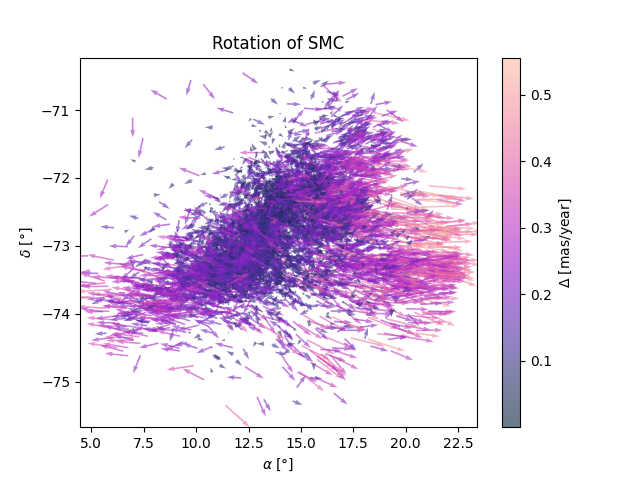
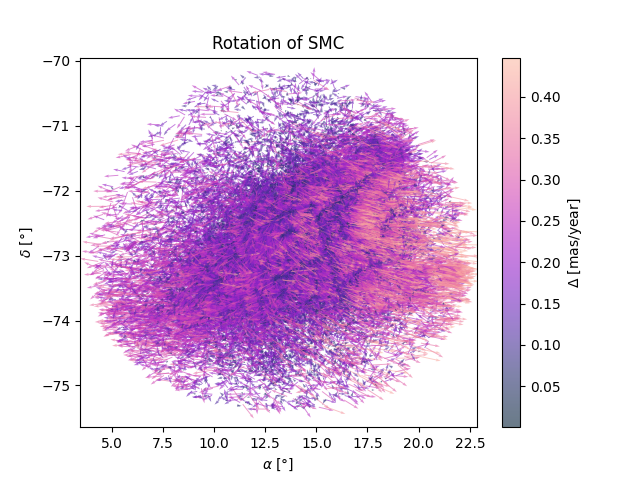
New SMC plots

diff --git a/DN2/main_SMC.py b/DN2/main_SMC.py
@@ -30,23 +30,23 @@ dec_f = np.take(dec, filt)
 pmra_f = np.take(pmra, filt)
 pmdec_f = np.take(pmdec, filt)
 pmra_n = pmra_f - np.median(pmra_f)
-pmdec_n = pmdec_f - np.median(pmdec_f) # len 49484
+pmdec_n = pmdec_f - np.median(pmdec_f)  # len 49484
 C = np.hypot(pmra_n, pmdec_n)
 
 
 # ---- Proper motion filter plot ----
-plt.scatter(pmra, pmdec, s=2, c=c1, label="Noise")
-plt.scatter(pmra_f, pmdec_f, s=1, c="#ADF1D2", label="SMC stars")
-plt.xlim(-0.25, 1.75)
-plt.ylim(-2, -0.25)
-plt.title("Filtering by proper motion")
-plt.xlabel(r"$\Delta\alpha$ [mas/year]")
-plt.ylabel(r"$\Delta\delta$ [mas/year]")
-plt.legend()
-plt.show()
+# plt.scatter(pmra, pmdec, s=2, c=c1, label="Noise")
+# plt.scatter(pmra_f, pmdec_f, s=1, c="#ADF1D2", label="SMC stars")
+# plt.xlim(-0.25, 1.75)
+# plt.ylim(-2, -0.25)
+# plt.title("Filtering by proper motion")
+# plt.xlabel(r"$\Delta\alpha$ [mas/year]")
+# plt.ylabel(r"$\Delta\delta$ [mas/year]")
+# plt.legend()
+# plt.show()
 
 # ---- Proper motion quiver plot ----
-plt.quiver(ra_f, dec_f, pmra_n, pmdec_n, C, scale=10, cmap="cmr.bubblegum", alpha=0.6)
+plt.quiver(ra_f, dec_f, pmra_n, pmdec_n, C, scale=7, cmap="cmr.bubblegum", alpha=0.6)
 plt.xlabel(r"$\alpha$ [$\degree$]")
 plt.ylabel(r"$\delta$ [$\degree$]")
 plt.title("Rotation of SMC")
